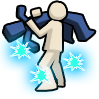
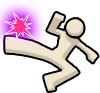
GITBOOK-102: No subject

diff --git a/game-guide/class-system/rush-class/pro-wrestling.md b/game-guide/class-system/rush-class/pro-wrestling.md
@@ -4,16 +4,16 @@
 
 #### **Crush Skill**
 
-<table><thead><tr><th width="94" align="center">Skill</th><th width="169">Skill Name</th><th width="69" align="center">Lv.</th><th width="180" align="center">Enter Key</th><th width="82" align="center">Type</th><th width="130" align="center">Base Damage</th></tr></thead><tbody><tr><td align="center"><img src="../../../../.gitbook/assets/image (31).png" alt="" data-size="original"></td><td>Rolling Elbow Rush</td><td align="center">10</td><td align="center"><img src="../../../../.gitbook/assets/image (182).png" alt="" data-size="original"></td><td align="center">Front</td><td align="center">1600</td></tr><tr><td align="center"><img src="../../../../.gitbook/assets/image (28).png" alt="" data-size="original"></td><td>Goliath</td><td align="center">11</td><td align="center"><img src="../../../../.gitbook/assets/image (187) (1).png" alt="" data-size="original"></td><td align="center">Back</td><td align="center">1350</td></tr><tr><td align="center"><img src="../../../../.gitbook/assets/image (30).png" alt="" data-size="original"></td><td>Neck Cut Kick</td><td align="center">13</td><td align="center"><img src="../../../../.gitbook/assets/image (182).png" alt="" data-size="original"></td><td align="center">Back</td><td align="center">900</td></tr><tr><td align="center"><img src="../../../../.gitbook/assets/image (24).png" alt="" data-size="original"></td><td>Twin Hammer</td><td align="center">15</td><td align="center"><img src="../../../../.gitbook/assets/image (189).png" alt="" data-size="original"></td><td align="center">Front</td><td align="center">1360</td></tr><tr><td align="center"><img src="../../../../.gitbook/assets/image (29).png" alt="" data-size="original"></td><td>Cross Line</td><td align="center">17</td><td align="center"><img src="../../../../.gitbook/assets/image (187) (1).png" alt="" data-size="original"></td><td align="center">Front</td><td align="center">1350</td></tr><tr><td align="center"><img src="../../../../.gitbook/assets/image (6).png" alt="" data-size="original"></td><td>Running Punch</td><td align="center">20</td><td align="center"><img src="../../../../.gitbook/assets/image (198).png" alt="" data-size="original"></td><td align="center">-</td><td align="center">900</td></tr><tr><td align="center"><img src="../../../../.gitbook/assets/image (23).png" alt="" data-size="original"></td><td>Back Twin Hammer</td><td align="center">23</td><td align="center"><img src="../../../../.gitbook/assets/image (189).png" alt="" data-size="original"></td><td align="center">Back</td><td align="center">1360</td></tr><tr><td align="center"><img src="../../../../.gitbook/assets/image (22).png" alt="" data-size="original"></td><td>Low Drop Kick</td><td align="center">26</td><td align="center"><img src="../../../../.gitbook/assets/image (196).png" alt="" data-size="original"></td><td align="center">Front</td><td align="center">1050</td></tr><tr><td align="center"><img src="../../../../.gitbook/assets/image (21).png" alt="" data-size="original"></td><td>Back Low Drop Kick</td><td align="center">27</td><td align="center"><img src="../../../../.gitbook/assets/image (196).png" alt="" data-size="original"></td><td align="center">Back</td><td align="center">750</td></tr></tbody></table>
+<table><thead><tr><th width="94" align="center">Skill</th><th width="169">Skill Name</th><th width="69" align="center">Lv.</th><th width="180" align="center">Enter Key</th><th width="82" align="center">Type</th><th width="130" align="center">Base Damage</th></tr></thead><tbody><tr><td align="center"><img src="../../../.gitbook/assets/image (31).png" alt="" data-size="original"></td><td>Rolling Elbow Rush</td><td align="center">10</td><td align="center"><img src="../../../.gitbook/assets/image (182).png" alt="" data-size="original"></td><td align="center">Front</td><td align="center">1600</td></tr><tr><td align="center"><img src="../../../.gitbook/assets/image (28).png" alt="" data-size="original"></td><td>Goliath</td><td align="center">11</td><td align="center"><img src="../../../.gitbook/assets/image (187) (1).png" alt="" data-size="original"></td><td align="center">Back</td><td align="center">1350</td></tr><tr><td align="center"><img src="../../../.gitbook/assets/image (30).png" alt="" data-size="original"></td><td>Neck Cut Kick</td><td align="center">13</td><td align="center"><img src="../../../.gitbook/assets/image (182).png" alt="" data-size="original"></td><td align="center">Back</td><td align="center">900</td></tr><tr><td align="center"><img src="../../../.gitbook/assets/image (24).png" alt="" data-size="original"></td><td>Twin Hammer</td><td align="center">15</td><td align="center"><img src="../../../.gitbook/assets/image (189).png" alt="" data-size="original"></td><td align="center">Front</td><td align="center">1360</td></tr><tr><td align="center"><img src="../../../.gitbook/assets/image (29).png" alt="" data-size="original"></td><td>Cross Line</td><td align="center">17</td><td align="center"><img src="../../../.gitbook/assets/image (187) (1).png" alt="" data-size="original"></td><td align="center">Front</td><td align="center">1350</td></tr><tr><td align="center"><img src="../../../.gitbook/assets/image (6).png" alt="" data-size="original"></td><td>Running Punch</td><td align="center">20</td><td align="center"><img src="../../../.gitbook/assets/image (198).png" alt="" data-size="original"></td><td align="center">-</td><td align="center">900</td></tr><tr><td align="center"><img src="../../../.gitbook/assets/image (23).png" alt="" data-size="original"></td><td>Back Twin Hammer</td><td align="center">23</td><td align="center"><img src="../../../.gitbook/assets/image (189).png" alt="" data-size="original"></td><td align="center">Back</td><td align="center">1360</td></tr><tr><td align="center"><img src="../../../.gitbook/assets/image (22).png" alt="" data-size="original"></td><td>Low Drop Kick</td><td align="center">26</td><td align="center"><img src="../../../.gitbook/assets/image (196).png" alt="" data-size="original"></td><td align="center">Front</td><td align="center">1050</td></tr><tr><td align="center"><img src="../../../.gitbook/assets/image (21).png" alt="" data-size="original"></td><td>Back Low Drop Kick</td><td align="center">27</td><td align="center"><img src="../../../.gitbook/assets/image (196).png" alt="" data-size="original"></td><td align="center">Back</td><td align="center">750</td></tr></tbody></table>
 
 #### **Hold Skill**
 
-<table><thead><tr><th width="94" align="center">Skill</th><th width="169">Skill Name</th><th width="69" align="center">Lv.</th><th width="180" align="center">Enter Key</th><th width="82" align="center">Type</th><th width="130" align="center">Base Damage</th></tr></thead><tbody><tr><td align="center"><img src="../../../../.gitbook/assets/image (18).png" alt="" data-size="original"></td><td>Back Breaker</td><td align="center">10</td><td align="center"><img src="../../../../.gitbook/assets/image (64).png" alt="" data-size="original"></td><td align="center">Front</td><td align="center">1200</td></tr><tr><td align="center"><img src="../../../../.gitbook/assets/image (11).png" alt="" data-size="original"></td><td>left arm bar</td><td align="center">11</td><td align="center"><img src="../../../../.gitbook/assets/image (267) (8).png" alt="" data-size="original"></td><td align="center">-</td><td align="center">1200</td></tr><tr><td align="center"><img src="../../../../.gitbook/assets/image (11) (1).png" alt="" data-size="original"></td><td>Right arm bar</td><td align="center">11</td><td align="center"><img src="../../../../.gitbook/assets/image (267).png" alt="" data-size="original"></td><td align="center">-</td><td align="center">1200</td></tr><tr><td align="center"><img src="../../../../.gitbook/assets/image (13).png" alt="" data-size="original"></td><td>Figure 4 Leg-lock</td><td align="center">11</td><td align="center"><img src="../../../../.gitbook/assets/image (267) (1).png" alt="" data-size="original"></td><td align="center">-</td><td align="center">1200</td></tr><tr><td align="center"><img src="../../../../.gitbook/assets/image (14).png" alt="" data-size="original"></td><td>Chin Lock</td><td align="center">11</td><td align="center"><img src="../../../../.gitbook/assets/image (267) (6).png" alt="" data-size="original"></td><td align="center">-</td><td align="center">1200</td></tr><tr><td align="center"><img src="../../../../.gitbook/assets/image (7).png" alt="" data-size="original"></td><td>Screech Hold</td><td align="center">12</td><td align="center"><img src="../../../../.gitbook/assets/image (267) (2).png" alt="" data-size="original"></td><td align="center">-</td><td align="center">1200</td></tr><tr><td align="center"><img src="../../../../.gitbook/assets/image (8).png" alt="" data-size="original"></td><td>Camel Crouch</td><td align="center">12</td><td align="center"><img src="../../../../.gitbook/assets/image (267) (7).png" alt="" data-size="original"></td><td align="center">-</td><td align="center">1200</td></tr><tr><td align="center"><img src="../../../../.gitbook/assets/image (9).png" alt="" data-size="original"></td><td>Half Boston Crap</td><td align="center">12</td><td align="center"><img src="../../../../.gitbook/assets/image (267) (3).png" alt="" data-size="original"></td><td align="center">-</td><td align="center">1200</td></tr><tr><td align="center"><img src="../../../../.gitbook/assets/image (10).png" alt="" data-size="original"></td><td>Wing Teaser</td><td align="center">12</td><td align="center"><img src="../../../../.gitbook/assets/image (267) (5).png" alt="" data-size="original"></td><td align="center">-</td><td align="center">1200</td></tr><tr><td align="center"><img src="../../../../.gitbook/assets/image (15).png" alt="" data-size="original"></td><td>D.D.T.</td><td align="center">12</td><td align="center"><img src="../../../../.gitbook/assets/image (265).png" alt="" data-size="original"></td><td align="center">Back</td><td align="center">1200</td></tr><tr><td align="center"><img src="../../../../.gitbook/assets/image (20).png" alt="" data-size="original"></td><td>Jumping Bomb</td><td align="center">14</td><td align="center"><img src="../../../../.gitbook/assets/image (67).png" alt="" data-size="original"></td><td align="center">Front</td><td align="center">1200</td></tr><tr><td align="center"><img src="../../../../.gitbook/assets/image (19).png" alt="" data-size="original"></td><td>Abdominal Stress</td><td align="center">16</td><td align="center"><img src="../../../../.gitbook/assets/image (67).png" alt="" data-size="original"></td><td align="center">Front</td><td align="center">1200</td></tr><tr><td align="center"><img src="../../../../.gitbook/assets/image (17).png" alt="" data-size="original"></td><td>Double Suplex</td><td align="center">21</td><td align="center"><img src="../../../../.gitbook/assets/image (64).png" alt="" data-size="original"></td><td align="center">Front</td><td align="center">1200</td></tr><tr><td align="center"><img src="../../../../.gitbook/assets/image (16).png" alt="" data-size="original"></td><td>Spinning Power Bomb</td><td align="center">22</td><td align="center"><img src="../../../../.gitbook/assets/image (265).png" alt="" data-size="original"></td><td align="center">Front</td><td align="center">1200</td></tr></tbody></table>
+<table><thead><tr><th width="94" align="center">Skill</th><th width="169">Skill Name</th><th width="69" align="center">Lv.</th><th width="180" align="center">Enter Key</th><th width="82" align="center">Type</th><th width="130" align="center">Base Damage</th></tr></thead><tbody><tr><td align="center"><img src="../../../.gitbook/assets/image (18).png" alt="" data-size="original"></td><td>Back Breaker</td><td align="center">10</td><td align="center"><img src="../../../.gitbook/assets/image (64).png" alt="" data-size="original"></td><td align="center">Front</td><td align="center">1200</td></tr><tr><td align="center"><img src="../../../.gitbook/assets/image (11).png" alt="" data-size="original"></td><td>left arm bar</td><td align="center">11</td><td align="center"><img src="../../../.gitbook/assets/image (267) (8).png" alt="" data-size="original"></td><td align="center">-</td><td align="center">1200</td></tr><tr><td align="center"><img src="../../../.gitbook/assets/image (11) (1).png" alt="" data-size="original"></td><td>Right arm bar</td><td align="center">11</td><td align="center"><img src="../../../.gitbook/assets/image (267).png" alt="" data-size="original"></td><td align="center">-</td><td align="center">1200</td></tr><tr><td align="center"><img src="../../../.gitbook/assets/image (13).png" alt="" data-size="original"></td><td>Figure 4 Leg-lock</td><td align="center">11</td><td align="center"><img src="../../../.gitbook/assets/image (267) (1).png" alt="" data-size="original"></td><td align="center">-</td><td align="center">1200</td></tr><tr><td align="center"><img src="../../../.gitbook/assets/image (14).png" alt="" data-size="original"></td><td>Chin Lock</td><td align="center">11</td><td align="center"><img src="../../../.gitbook/assets/image (267) (6).png" alt="" data-size="original"></td><td align="center">-</td><td align="center">1200</td></tr><tr><td align="center"><img src="../../../.gitbook/assets/image (7).png" alt="" data-size="original"></td><td>Screech Hold</td><td align="center">12</td><td align="center"><img src="../../../.gitbook/assets/image (267) (2).png" alt="" data-size="original"></td><td align="center">-</td><td align="center">1200</td></tr><tr><td align="center"><img src="../../../.gitbook/assets/image (8).png" alt="" data-size="original"></td><td>Camel Crouch</td><td align="center">12</td><td align="center"><img src="../../../.gitbook/assets/image (267) (7).png" alt="" data-size="original"></td><td align="center">-</td><td align="center">1200</td></tr><tr><td align="center"><img src="../../../.gitbook/assets/image (9).png" alt="" data-size="original"></td><td>Half Boston Crap</td><td align="center">12</td><td align="center"><img src="../../../.gitbook/assets/image (267) (3).png" alt="" data-size="original"></td><td align="center">-</td><td align="center">1200</td></tr><tr><td align="center"><img src="../../../.gitbook/assets/image (10).png" alt="" data-size="original"></td><td>Wing Teaser</td><td align="center">12</td><td align="center"><img src="../../../.gitbook/assets/image (267) (5).png" alt="" data-size="original"></td><td align="center">-</td><td align="center">1200</td></tr><tr><td align="center"><img src="../../../.gitbook/assets/image (15).png" alt="" data-size="original"></td><td>D.D.T.</td><td align="center">12</td><td align="center"><img src="../../../.gitbook/assets/image (265).png" alt="" data-size="original"></td><td align="center">Back</td><td align="center">1200</td></tr><tr><td align="center"><img src="../../../.gitbook/assets/image (20).png" alt="" data-size="original"></td><td>Jumping Bomb</td><td align="center">14</td><td align="center"><img src="../../../.gitbook/assets/image (67).png" alt="" data-size="original"></td><td align="center">Front</td><td align="center">1200</td></tr><tr><td align="center"><img src="../../../.gitbook/assets/image (19).png" alt="" data-size="original"></td><td>Abdominal Stress</td><td align="center">16</td><td align="center"><img src="../../../.gitbook/assets/image (67).png" alt="" data-size="original"></td><td align="center">Front</td><td align="center">1200</td></tr><tr><td align="center"><img src="../../../.gitbook/assets/image (17).png" alt="" data-size="original"></td><td>Double Suplex</td><td align="center">21</td><td align="center"><img src="../../../.gitbook/assets/image (64).png" alt="" data-size="original"></td><td align="center">Front</td><td align="center">1200</td></tr><tr><td align="center"><img src="../../../.gitbook/assets/image (16).png" alt="" data-size="original"></td><td>Spinning Power Bomb</td><td align="center">22</td><td align="center"><img src="../../../.gitbook/assets/image (265).png" alt="" data-size="original"></td><td align="center">Front</td><td align="center">1200</td></tr></tbody></table>
 
 #### **Team/Double Skill**
 
-<table><thead><tr><th width="94" align="center">Skill</th><th width="169.4544677734375">Skill Name</th><th width="69" align="center">Lv.</th><th width="179.6363525390625" align="center">Enter Key</th><th width="81.8182373046875" align="center">Type</th><th width="130.45458984375">Base Damage</th></tr></thead><tbody><tr><td align="center"><img src="../../../../.gitbook/assets/image (5).png" alt="" data-size="original"></td><td>Super Suplex</td><td align="center">18</td><td align="center"><img src="../../../../.gitbook/assets/image (68).png" alt="" data-size="original"></td><td align="center">Front</td><td>4200</td></tr><tr><td align="center"><img src="../../../../.gitbook/assets/image (2).png" alt="" data-size="original"></td><td>Double Choke Slam</td><td align="center">19</td><td align="center"><img src="../../../../.gitbook/assets/image (69).png" alt="" data-size="original"></td><td align="center">Back</td><td>4400</td></tr><tr><td align="center"><img src="../../../../.gitbook/assets/image (4).png" alt="" data-size="original"></td><td>Double Stunner</td><td align="center">24</td><td align="center"><img src="../../../../.gitbook/assets/image (70).png" alt="" data-size="original"></td><td align="center">Back</td><td>4200</td></tr><tr><td align="center"><img src="../../../../.gitbook/assets/image (3).png" alt="" data-size="original"></td><td>Death Guillotine</td><td align="center">25</td><td align="center"><img src="../../../../.gitbook/assets/image (69) (1).png" alt="" data-size="original"></td><td align="center">Front</td><td>4400</td></tr></tbody></table>
+<table><thead><tr><th width="94" align="center">Skill</th><th width="169.4544677734375">Skill Name</th><th width="69" align="center">Lv.</th><th width="179.6363525390625" align="center">Enter Key</th><th width="81.8182373046875" align="center">Type</th><th width="130.45458984375">Base Damage</th></tr></thead><tbody><tr><td align="center"><img src="../../../.gitbook/assets/image (5).png" alt="" data-size="original"></td><td>Super Suplex</td><td align="center">18</td><td align="center"><img src="../../../.gitbook/assets/image (68).png" alt="" data-size="original"></td><td align="center">Front</td><td>4200</td></tr><tr><td align="center"><img src="../../../.gitbook/assets/image (2).png" alt="" data-size="original"></td><td>Double Choke Slam</td><td align="center">19</td><td align="center"><img src="../../../.gitbook/assets/image (69).png" alt="" data-size="original"></td><td align="center">Back</td><td>4400</td></tr><tr><td align="center"><img src="../../../.gitbook/assets/image (4).png" alt="" data-size="original"></td><td>Double Stunner</td><td align="center">24</td><td align="center"><img src="../../../.gitbook/assets/image (70).png" alt="" data-size="original"></td><td align="center">Back</td><td>4200</td></tr><tr><td align="center"><img src="../../../.gitbook/assets/image (3).png" alt="" data-size="original"></td><td>Death Guillotine</td><td align="center">25</td><td align="center"><img src="../../../.gitbook/assets/image (69) (1).png" alt="" data-size="original"></td><td align="center">Front</td><td>4400</td></tr></tbody></table>
 
 #### **Special Skill**
 
-<table><thead><tr><th width="94" align="center">Skill</th><th width="169">Skill Name</th><th width="69.272705078125" align="center">Lv.</th><th width="180.3636474609375" align="center">Enter Key</th><th width="82.5455322265625" align="center">Type</th><th width="131.0001220703125" align="center">Base Damage</th></tr></thead><tbody><tr><td align="center"><img src="../../../../.gitbook/assets/image (1).png" alt="" data-size="original"></td><td>Wrestling Rage</td><td align="center">28</td><td align="center"><img src="../../../../.gitbook/assets/image (72).png" alt="" data-size="original"></td><td align="center">-</td><td align="center">3300</td></tr><tr><td align="center"><img src="../../../../.gitbook/assets/image.png" alt="" data-size="original"></td><td>Rider Kick</td><td align="center">29</td><td align="center"><img src="../../../../.gitbook/assets/image (73).png" alt="" data-size="original"></td><td align="center">-</td><td align="center">8000</td></tr></tbody></table>
+<table><thead><tr><th width="94" align="center">Skill</th><th width="169">Skill Name</th><th width="69.272705078125" align="center">Lv.</th><th width="180.3636474609375" align="center">Enter Key</th><th width="82.5455322265625" align="center">Type</th><th width="131.0001220703125" align="center">Base Damage</th></tr></thead><tbody><tr><td align="center"><img src="../../../.gitbook/assets/image (1) (1).png" alt="" data-size="original"></td><td>Wrestling Rage</td><td align="center">28</td><td align="center"><img src="../../../.gitbook/assets/image (72).png" alt="" data-size="original"></td><td align="center">-</td><td align="center">3300</td></tr><tr><td align="center"><img src="../../../.gitbook/assets/image (1).png" alt="" data-size="original"></td><td>Rider Kick</td><td align="center">29</td><td align="center"><img src="../../../.gitbook/assets/image (73).png" alt="" data-size="original"></td><td align="center">-</td><td align="center">8000</td></tr></tbody></table>

diff --git a/SUMMARY.md b/SUMMARY.md
@@ -2,7 +2,9 @@
 
 ## MAX COMBO WHITEPAPER
 
-* [About Zone4 MAX Combo](README.md)
+* [🗺 About Zone4 MAX Combo](README.md)
+* [🤝 EXE x Max Game](max-combo-whitepaper/exe-x-max-game.md)
+* [🚶 Journey into MAX Combo](max-combo-whitepaper/journey-into-max-combo.md)
 
 ## MAIN FEATURES IN Z4MAX
 
@@ -79,20 +81,24 @@
   * [🏠 My Room](game-guide/game-guide/my-room.md)
   * [❔ Quest System](game-guide/game-guide/quest-system.md)
 
+## TOKEN ECONOMY
+
+* [💱 What is a Token Economy?](token-economy/what-is-a-token-economy.md)
+* [⚖ Tax System](token-economy/tax-system.md)
+* [📒 CBT Manual](token-economy/cbt-manual.md)
+
+## OTHER INFORMATION
+
+* [🦾 Fixing Patcher Download Issues](other-information/fixing-patcher-download-issues.md)
+* [⬇ How to Install](other-information/how-to-install.md)
+* [🔗 Official Links](other-information/official-links.md)
+* [🖥 PC Specifications](other-information/pc-specifications.md)
+
 ***
 
 * [main-feature-in-z4-max](main-feature-in-z4-max.md)
 * [🗺 About Zone4 MAX Combo](docs/README.md)
   * [Table of contents](docs/SUMMARY.md)
-  * [max-combo-white-paper](docs/max-combo-white-paper/README.md)
-    * [🤝 EXE x Max Game](docs/max-combo-white-paper/exe-x-max-game.md)
-    * [🚶 Journey into MAX Combo](docs/max-combo-white-paper/journey-into-max-combo.md)
-  * [other-information](docs/other-information/README.md)
-    * [🦾 Fixing Patcher Download Issues](docs/other-information/fixing-patcher-download-issues.md)
-    * [⬇ How to Install](docs/other-information/how-to-install.md)
-    * [🔗 Official Links](docs/other-information/official-links.md)
-    * [🖥 PC Specifications](docs/other-information/pc-specifications.md)
-  * [token-economy](docs/token-economy/README.md)
-    * [📒 CBT Manual](docs/token-economy/cbt-manual.md)
-    * [⚖ Tax System](docs/token-economy/tax-system.md)
-    * [💱 What is a Token Economy?](docs/token-economy/what-is-a-token-economy.md)
+  * [max-combo-white-paper](docs/max-combo-white-paper.md)
+  * [token-economy](docs/token-economy.md)
+  * [other-information](docs/other-information.md)

diff --git a/docs/SUMMARY.md b/docs/SUMMARY.md
@@ -7,14 +7,14 @@ hidden: true
 ## MAX COMBO WHITE PAPER
 
 * [🗺 About Zone4 MAX Combo](./)
-* [🤝 EXE x Max Game](max-combo-white-paper/exe-x-max-game.md)
-* [🚶 Journey into MAX Combo](max-combo-white-paper/journey-into-max-combo.md)
+* [🤝 EXE x Max Game](../max-combo-whitepaper/exe-x-max-game.md)
+* [🚶 Journey into MAX Combo](../max-combo-whitepaper/journey-into-max-combo.md)
 
 ## TOKEN ECONOMY
 
-* [💱 What is a Token Economy?](token-economy/what-is-a-token-economy.md)
-* [⚖ Tax System](token-economy/tax-system.md)
-* [📒 CBT Manual](token-economy/cbt-manual.md)
+* [💱 What is a Token Economy?](../token-economy/what-is-a-token-economy.md)
+* [⚖ Tax System](../token-economy/tax-system.md)
+* [📒 CBT Manual](../token-economy/cbt-manual.md)
 
 ## Main Feature in Z4 MAX
 
@@ -92,7 +92,7 @@ hidden: true
 
 ## OTHER INFORMATION
 
-* [🔗 Official Links](other-information/official-links.md)
-* [🖥 PC Specifications](other-information/pc-specifications.md)
-* [🦾 Fixing Patcher Download Issues](other-information/fixing-patcher-download-issues.md)
-* [⬇ How to Install](other-information/how-to-install.md)
+* [🔗 Official Links](../other-information/official-links.md)
+* [🖥 PC Specifications](../other-information/pc-specifications.md)
+* [🦾 Fixing Patcher Download Issues](../other-information/fixing-patcher-download-issues.md)
+* [⬇ How to Install](../other-information/how-to-install.md)

diff --git a/README.md b/README.md
@@ -1,2 +1,9 @@
-# About Zone4 MAX Combo
+# 🗺 About Zone4 MAX Combo
 
+<figure><img src=".gitbook/assets/image.png" alt=""><figcaption></figcaption></figure>
+
+Welcome to Zone4 MAX Combo! An exciting new addition to the world of MMO(Massive Multiplayer Online). Whether you are an avid gamer, a fan of animes or simply curious about play & earn, Zone4 MAX Combo is an experience that builds communities in a web3 gaming environment.
+
+This whitepaper gives players an understanding on the game and web3 features we are introducing. New systems will be added to these nostalgic Zone4 Online (Z4) PC game with competitive Gang vs Gang (GvG) mechanics, crypto and NFTs economy. We will continue to improve these features to engage communities and make the gameplay more enjoyable.
+
+We believe in a player-driven economy and are incentivizing players who progresses in-game. By leveraging web3 features, all players can participate in a secured and fair marketplace driven by demand and supply.

diff --git a/docs/README.md b/docs/README.md
@@ -1,3 +1,7 @@
+---
+hidden: true
+---
+
 # 🗺 About Zone4 MAX Combo
 
 <figure><img src="../.gitbook/assets/Logo Zone4 Maxion_01_Colour (1).png" alt=""><figcaption></figcaption></figure>
